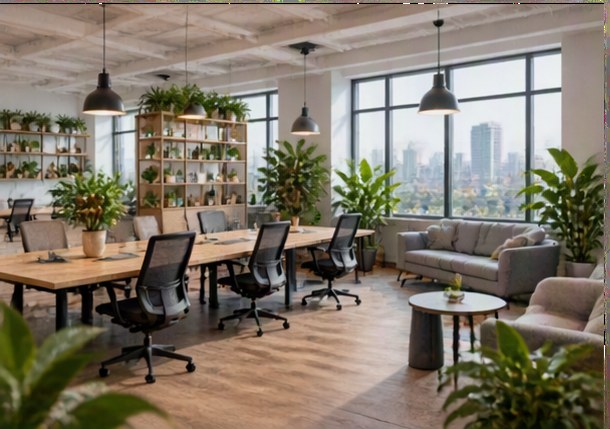
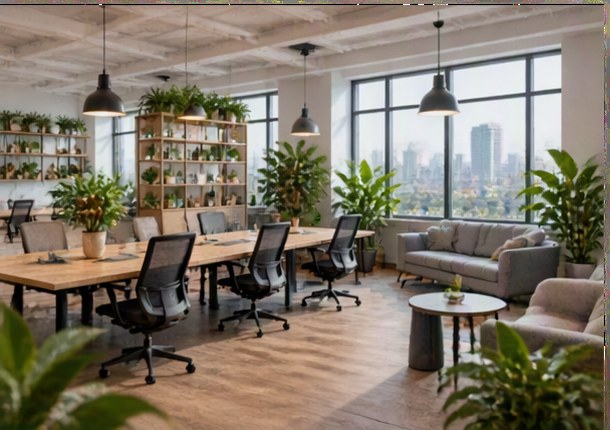
Add Flutter Camera Web App new new

diff --git a/web/app.js b/web/app.js
@@ -1,0 +1,15 @@
+import{FilesetResolver,ImageSegmenter}from'https://cdn.jsdelivr.net/npm/@mediapipe/tasks-vision@0.10.22-rc.20250304/+esm';
+const MODEL='https://storage.googleapis.com/mediapipe-models/image_segmenter/selfie_segmenter/float16/latest/selfie_segmenter.tflite',WASM='https://cdn.jsdelivr.net/npm/@mediapipe/tasks-vision@0.10.22-rc.20250304/wasm';
+class Pro extends HTMLElement{constructor(){super();this.attachShadow({mode:'open'});this.mode='executive';this.threshold=.58;this.edge=.08;this.cleanup=true;this.temporal=null;this.last=-1;this.bg=new Image();this.bg.src='backgrounds/executive.jpg';this.mc=document.createElement('canvas');this.pc=document.createElement('canvas')}
+connectedCallback(){this.render();this.bind();this.init()}
+render(){let cards=['executive','home','conference','coworking','studio','tech'];this.shadowRoot.innerHTML=`<style>*{box-sizing:border-box}:host{display:block;min-height:100vh;background:linear-gradient(135deg,#070b18,#151d39);color:#fff;font-family:Inter,system-ui}.app{max-width:1400px;margin:auto;padding:20px}.head{font-size:22px;font-weight:900;margin-bottom:16px}.grid{display:grid;grid-template-columns:1fr 380px;gap:18px}.card{background:#ffffff0d;border:1px solid #ffffff18;border-radius:24px;padding:15px;box-shadow:0 25px 75px #0005}.stage{position:relative;aspect-ratio:16/10;border-radius:18px;overflow:hidden;background:#050814}.stage video,.stage canvas{position:absolute;width:100%;height:100%;object-fit:cover;transform:scaleX(-1)}video{opacity:0}.empty{position:absolute;inset:0;display:grid;place-items:center;text-align:center;color:#9cabc0}.bar{display:flex;justify-content:space-between;align-items:center;gap:10px;margin-top:12px}.buttons{display:flex;gap:8px;flex-wrap:wrap}button,.upload{border:1px solid #ffffff1a;background:#ffffff0d;color:#fff;border-radius:12px;padding:10px 13px;font-weight:800;cursor:pointer}.primary{border:0;background:linear-gradient(135deg,#745fff,#38bdf8)}.upload input{display:none}.bgs{display:grid;grid-template-columns:1fr 1fr;gap:9px}.bg{height:85px;background-size:cover;background-position:center;position:relative}.bg span{position:absolute;left:6px;bottom:6px;background:#050814bd;padding:5px 7px;border-radius:8px;font-size:11px}.bg.active{outline:3px solid #7968ff}.controls{margin-top:14px;padding-top:14px;border-top:1px solid #ffffff16}.row{display:flex;justify-content:space-between;font-size:12px;margin-top:11px}.hint{font-size:11px;color:#91a1b8;line-height:1.45}input[type=range]{width:100%;accent-color:#7968ff}.download{width:100%;margin-top:12px}.status{font-size:13px;color:#a9b6c9}@media(max-width:860px){.grid{grid-template-columns:1fr}.bgs{grid-template-columns:repeat(3,1fr)}}@media(max-width:560px){.app{padding:9px}.card{border-radius:18px;padding:8px}.stage{aspect-ratio:3/4}.bar{display:block}.buttons{display:grid;grid-template-columns:1fr 1fr;margin-top:9px}.buttons .primary{grid-column:1/-1}.buttons>*{min-height:46px}.bgs{display:flex;overflow-x:auto}.bg{flex:0 0 125px}}</style><main class="app"><div class="head">✦ Portrait Accuracy Pro</div><div class="grid"><section class="card"><div class="stage"><video playsinline muted></video><canvas></canvas><div class="empty"><b>Open camera or upload a portrait</b></div></div><div class="bar"><div class="status">Loading professional person model…</div><div class="buttons"><button class="primary open">Open Camera</button><label class="upload">Upload Photo<input class="photo" type="file" accept="image/*"></label><button class="capture" disabled>Capture</button><button class="stop" disabled>Stop</button></div></div></section><aside class="card"><h3>Professional backgrounds</h3><div class="bgs">${cards.map((n,i)=>`<button class="bg ${i?'':'active'}" data-bg="${n}" style="background-image:url(backgrounds/${n}.jpg)"><span>${n}</span></button>`).join('')}<button class="bg" data-bg="blur"><span>Smart blur</span></button><button class="bg" data-bg="original"><span>Original</span></button></div><div class="controls"><div class="row"><b>Person confidence</b><span class="pval">58</span></div><input class="precision" type="range" min="42" max="76" value="58"><div class="row"><b>Hair edge refinement</b><span class="eval">8</span></div><input class="edge" type="range" min="3" max="16" value="8"><label class="hint" style="display:flex;gap:8px;align-items:center;margin-top:12px"><input class="cleanup" type="checkbox" checked> Reject disconnected objects and chair edges</label><p class="hint">Accuracy pipeline uses confidence-aware smoothing, main-person connected-component selection, temporal stabilization and smooth alpha matting.</p><button class="primary download" disabled>Download portrait</button></div></aside></div></main>`;this.v=this.$('video');this.c=this.$('canvas');this.x=this.c.getContext('2d')}
+$(q){return this.shadowRoot.querySelector(q)}$all(q){return[...this.shadowRoot.querySelectorAll(q)]}status(t){this.$('.status').textContent=t}
+bind(){this.$('.open').onclick=()=>this.open();this.$('.stop').onclick=()=>this.stop();this.$('.capture').onclick=()=>this.capture();this.$('.download').onclick=()=>this.download();this.$('.precision').oninput=e=>{this.threshold=e.target.value/100;this.$('.pval').textContent=e.target.value;if(this.photo)this.processPhoto()};this.$('.edge').oninput=e=>{this.edge=e.target.value/100;this.$('.eval').textContent=e.target.value;if(this.photo)this.processPhoto()};this.$('.cleanup').onchange=e=>{this.cleanup=e.target.checked;this.temporal=null;if(this.photo)this.processPhoto()};this.$all('.bg').forEach(b=>b.onclick=()=>{this.mode=b.dataset.bg;this.$all('.bg').forEach(z=>z.classList.toggle('active',z===b));if(!['blur','original'].includes(this.mode))this.bg.src=`backgrounds/${this.mode}.jpg`;if(this.photo)this.processPhoto()});this.$('.photo').onchange=e=>this.loadPhoto(e)}
+async init(){try{let f=await FilesetResolver.forVisionTasks(WASM);this.seg=await ImageSegmenter.createFromOptions(f,{baseOptions:{modelAssetPath:MODEL,delegate:'GPU'},runningMode:'VIDEO',outputConfidenceMasks:true});this.status('Model ready')}catch(e){this.status('Model load failed: '+e.message)}}
+async open(){this.stop(false);this.photo=null;this.temporal=null;this.stream=await navigator.mediaDevices.getUserMedia({video:{facingMode:'user',width:{ideal:1280},height:{ideal:720}},audio:false});this.v.srcObject=this.stream;await this.v.play();await this.seg.setOptions({runningMode:'VIDEO'});this.c.width=this.v.videoWidth;this.c.height=this.v.videoHeight;this.running=true;this.$('.empty').style.display='none';this.$('.capture').disabled=false;this.$('.stop').disabled=false;requestAnimationFrame(t=>this.loop(t))}
+stop(empty=true){this.running=false;if(this.stream)this.stream.getTracks().forEach(t=>t.stop());this.stream=null;if(this.v)this.v.srcObject=null;if(this.shadowRoot){this.$('.capture').disabled=true;this.$('.stop').disabled=true;if(empty)this.$('.empty').style.display='grid'}}loop(t){if(!this.running)return;if(this.v.readyState>1&&this.v.currentTime!==this.last){this.last=this.v.currentTime;this.seg.segmentForVideo(this.v,t,r=>this.compose(r,this.v))}requestAnimationFrame(n=>this.loop(n))}
+mask(result){let m=result.confidenceMasks[0],src=m.getAsFloat32Array(),w=m.width,h=m.height,n=w*h,s=new Float32Array(n),bin=new Uint8Array(n),seen=new Uint8Array(n);for(let y=0;y<h;y++)for(let x=0;x<w;x++){let sum=0,ws=0,c=src[y*w+x];for(let yy=Math.max(0,y-1);yy<=Math.min(h-1,y+1);yy++)for(let xx=Math.max(0,x-1);xx<=Math.min(w-1,x+1);xx++){let v=src[yy*w+xx],wt=1/(1+Math.abs(v-c)*8);sum+=v*wt;ws+=wt}s[y*w+x]=sum/ws;bin[y*w+x]=s[y*w+x]>=this.threshold?1:0}let best=[],stack=[],dirs=[-1,1,-w,w];for(let i=0;i<n;i++){if(!bin[i]||seen[i])continue;let comp=[],center=0;stack=[i];seen[i]=1;while(stack.length){let q=stack.pop(),x=q%w,y=q/w|0;comp.push(q);if(x>w*.2&&x<w*.8&&y<h*.92)center++;for(let d of dirs){let z=q+d;if(z<0||z>=n||seen[z]||!bin[z])continue;if((d===-1||d===1)&&Math.abs(z%w-x)>1)continue;seen[z]=1;stack.push(z)}}if(center>12&&comp.length>best.length)best=comp}let keep=new Float32Array(n);for(let i of best)keep[i]=s[i];if(this.cleanup)for(let y=0;y<h;y++){let yn=y/h,half=yn<.6?.5:Math.max(.32,.5-(yn-.6)*.26);for(let x=0;x<w;x++){let dx=Math.abs(x/w-.5);if(dx>half)keep[y*w+x]=0;else if(yn>.73&&dx>half*.84)keep[y*w+x]*=Math.max(0,(half-dx)/(half*.16))}}if(!this.temporal||this.temporal.length!==n)this.temporal=keep.slice();else for(let i=0;i<n;i++)this.temporal[i]=this.temporal[i]*.62+keep[i]*.38;return{m,d:this.temporal,w,h}}
+bgdraw(w,h,source){if(this.mode==='original'){this.x.drawImage(source,0,0,w,h);return}if(this.mode==='blur'){this.x.save();this.x.filter='blur(20px)';this.x.drawImage(source,-25,-25,w+50,h+50);this.x.restore();return}let r=Math.max(w/this.bg.naturalWidth,h/this.bg.naturalHeight),dw=this.bg.naturalWidth*r,dh=this.bg.naturalHeight*r;this.x.drawImage(this.bg,(w-dw)/2,(h-dh)/2,dw,dh)}
+compose(result,source){let w=this.c.width,h=this.c.height,{m,d,w:mw,h:mh}=this.mask(result);this.x.clearRect(0,0,w,h);this.bgdraw(w,h,source);if(this.mode!=='original'){this.mc.width=mw;this.mc.height=mh;let mx=this.mc.getContext('2d'),id=mx.createImageData(mw,mh),lo=this.threshold-this.edge,hi=this.threshold+this.edge;for(let i=0;i<d.length;i++){let t=Math.max(0,Math.min(1,(d[i]-lo)/(hi-lo)));t=t*t*(3-2*t);id.data[i*4]=id.data[i*4+1]=id.data[i*4+2]=255;id.data[i*4+3]=t*255}mx.putImageData(id,0,0);this.pc.width=w;this.pc.height=h;let px=this.pc.getContext('2d');px.clearRect(0,0,w,h);px.drawImage(source,0,0,w,h);px.globalCompositeOperation='destination-in';px.imageSmoothingQuality='high';px.drawImage(this.mc,0,0,w,h);px.globalCompositeOperation='source-over';this.x.drawImage(this.pc,0,0)}m.close?.()}
+capture(){this.lastImage=this.c.toDataURL('image/jpeg',.95);this.stop(false);this.$('.download').disabled=false;this.status('Captured. Camera access stopped.')}download(){let a=document.createElement('a');a.href=this.lastImage;a.download='Portrait_Accuracy_Pro.jpg';a.click()}loadPhoto(e){let f=e.target.files[0];if(!f)return;this.stop(false);let im=new Image();im.onload=()=>{this.photo=im;this.temporal=null;this.c.width=im.width;this.c.height=im.height;this.$('.empty').style.display='none';this.processPhoto()};im.src=URL.createObjectURL(f)}async processPhoto(){await this.seg.setOptions({runningMode:'IMAGE'});this.seg.segment(this.photo,r=>{this.compose(r,this.photo);this.lastImage=this.c.toDataURL('image/jpeg',.95);this.$('.download').disabled=false})}}
+customElements.define('portrait-pro',Pro);

diff --git a/lib/main.dart b/lib/main.dart
@@ -1,26 +1,2 @@
-import 'package:flutter/material.dart';
-import 'package:web/web.dart' as web;
-import 'dart:ui_web' as ui_web;
-
-void main() {
-  WidgetsFlutterBinding.ensureInitialized();
-  ui_web.platformViewRegistry.registerViewFactory('ai-camera-studio', (int id) {
-    final element = web.document.createElement('ai-camera-studio');
-    element.id = 'ai-camera-studio-$id';
-    return element;
-  });
-  runApp(const App());
-}
-
-class App extends StatelessWidget {
-  const App({super.key});
-  @override
-  Widget build(BuildContext context) => MaterialApp(
-        debugShowCheckedModeBanner: false,
-        title: 'Realtime AI Background Studio',
-        theme: ThemeData(colorScheme: ColorScheme.fromSeed(seedColor: const Color(0xff5b5bd6)), useMaterial3: true),
-        home: const Scaffold(
-          body: SafeArea(child: HtmlElementView(viewType: 'ai-camera-studio')),
-        ),
-      );
-}
+import 'dart:ui_web' as ui_web; import 'package:flutter/material.dart'; import 'package:web/web.dart' as web;
+void main(){WidgetsFlutterBinding.ensureInitialized();ui_web.platformViewRegistry.registerViewFactory('portrait',(id)=>web.document.createElement('portrait-pro'));runApp(const MaterialApp(debugShowCheckedModeBanner:false,home:Scaffold(body:HtmlElementView(viewType:'portrait'))));}

diff --git a/web/index.html b/web/index.html
@@ -1,15 +1,1 @@
-<!DOCTYPE html>
-<html>
-<head>
-  <base href="$FLUTTER_BASE_HREF">
-  <meta charset="UTF-8">
-  <meta name="viewport" content="width=device-width,initial-scale=1,maximum-scale=1,user-scalable=no">
-  <meta name="theme-color" content="#111827">
-  <meta name="description" content="Realtime AI person segmentation and background replacement">
-  <title>Realtime AI Background Studio</title>
-  <script type="module" src="ai_camera.js"></script>
-</head>
-<body>
-  <script src="flutter_bootstrap.js" async></script>
-</body>
-</html>
+<!doctype html><html><head><base href="$FLUTTER_BASE_HREF"><meta charset="utf-8"><meta name="viewport" content="width=device-width,initial-scale=1"><title>Portrait Accuracy Pro</title><script type="module" src="app.js"></script></head><body><script src="flutter_bootstrap.js" async></script></body></html>

diff --git a/README.md b/README.md
@@ -1,15 +1,2 @@
-# Portrait Studio AI - Precision Mask Edition
-
-## Detection upgrades
-- 3x3 confidence smoothing to remove isolated mask noise
-- Largest central connected-person selection
-- Temporal mask smoothing to reduce live edge flicker
-- Optional Portrait Cleanup designed to reject connected chairs, desks and side objects
-- Adjustable detection precision and edge refinement
-- Professional responsive desktop/mobile UI
-
-## Recommended tuning
-- Head-and-shoulders portrait: Portrait Cleanup ON, precision 58-66
-- Full body: Portrait Cleanup OFF, precision 52-62
-- Hair disappearing: lower precision or raise edge refinement
-- Chair retained: turn Portrait Cleanup ON and raise precision gradually
+# Portrait Accuracy Pro
+Professional browser-side person segmentation with confidence-aware smoothing, central person isolation, temporal stabilization, chair/object cleanup, refined hair edges, camera shutdown after capture, photo upload and professional backgrounds.
